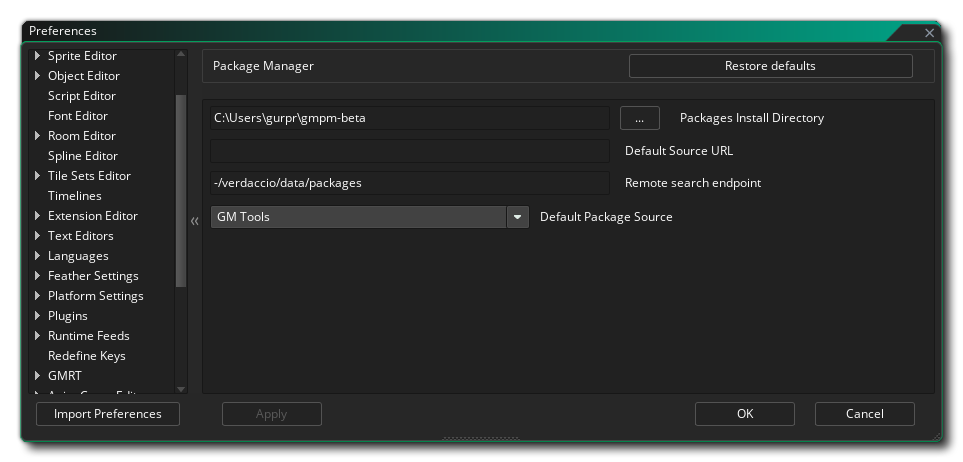
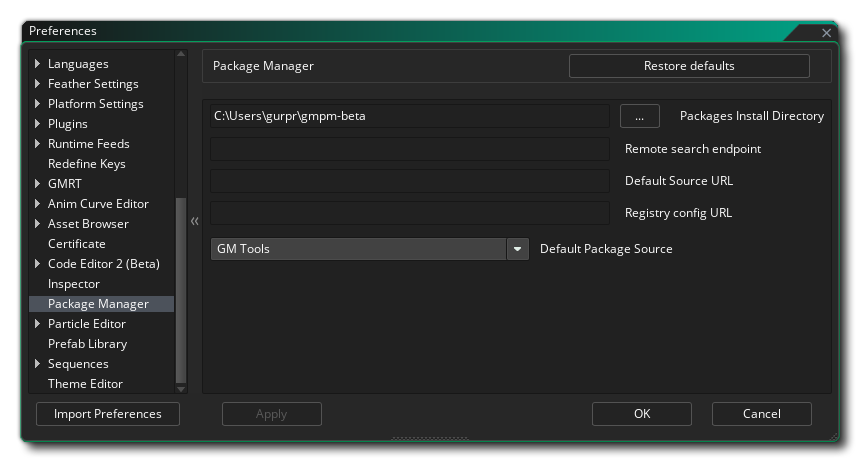
docs(feature): 2024.14 - document the 'registry config url' in GMPM prefs

diff --git a/Manual/contents/Setting_Up_And_Version_Information/IDE_Preferences/Package_Manager_Preferences.htm b/Manual/contents/Setting_Up_And_Version_Information/IDE_Preferences/Package_Manager_Preferences.htm
@@ -20,14 +20,15 @@
   <p>This contains preferences for the <a data-xref="{title}" href="../../IDE_Tools/Package_Manager.htm">Package Manager</a>:</p>
   <ul class="colour">
     <li><strong>Packages Install Directory</strong>: The directory where packages are installed.<span data-condition="Export:Beta"> The <a data-xref="{title}" href="GMRT_Preferences.htm">GMRT Preferences</a> should be set to look in this directory.</span></li>
-    <li><strong>Default Source URL</strong>: This is the default package source URL to use when a new Package Source is added in the Package Manager</li>
-    <li><strong>Remote Search Endpoint</strong>: This is the default &quot;scopes&quot; option used when a new Package Source is added<span>. This differs between registries. For example:</span>
+    <li><strong>Remote search endpoint</strong>: This is the default &quot;scopes&quot; option used when a new Package Source is added is added in the Package Manager<span>. This differs between registries. For example:</span>
       <ul>
         <li><span>V<span>erdaccio-based registries return a JSON list of all packages when using the <span class="inline2">-/verdaccio/data/packages</span> endpoint, such that the final URL is </span><span class="inline2"><a data-sk="tooltip_parent" data-stringify-link="http://registry.com/-/verdaccio/data/packages" href="http://registry.com/-/verdaccio/data/packages" rel="noopener noreferrer" target="_blank">http://registry.com/-/verdaccio/data/packages</a></span></span></li>
         <li><span><span>npmjs is a common public provider of npm packages and uses the endpoint <span class="inline2">-/v1/search?text=@gamemaker</span> to perform a search query on the registry such that the final URL is </span><span class="inline2"><a data-sk="tooltip_parent" data-stringify-link="https://registry.npmjs.com/-/v1/search?text=@gamemaker" href="https://registry.npmjs.com/-/v1/search?text=@gamemaker" rel="noopener noreferrer" target="_blank">https://registry.npmjs.com/-/v1/search?text=@gamemaker</a></span></span></li>
         <li><span>G<span>itHub repos can also be used as npm registries, however, these &quot;registries&quot; only contain a single package as specified by the endpoint <span class="inline2">@username/project-name</span>, such that the final URL is </span><span class="inline2"><a data-sk="tooltip_parent" data-stringify-link="https://npm.pkg.github.com/@username/project-name" href="https://npm.pkg.github.com/@username/project-name" rel="noopener noreferrer" target="_blank">https://npm.pkg.github.com/@username/project-name</a></span>.</span></li>
       </ul>
     </li>
+    <li><strong>Default Source URL</strong>: This is the default package source URL used when a new Package Source is added in the Package Manager.</li>
+    <li><strong>Registry config URL</strong>: The URL used to retrieve the set of package sources in the Package Manager. Only modify this upon instruction from the <span data-keyref="GameMaker Name">GameMaker</span> team.</li>
     <li><b>Default Package Source:</b> The package source that opens by default when you open the Package Manager.</li>
   </ul>
   <p> </p>
